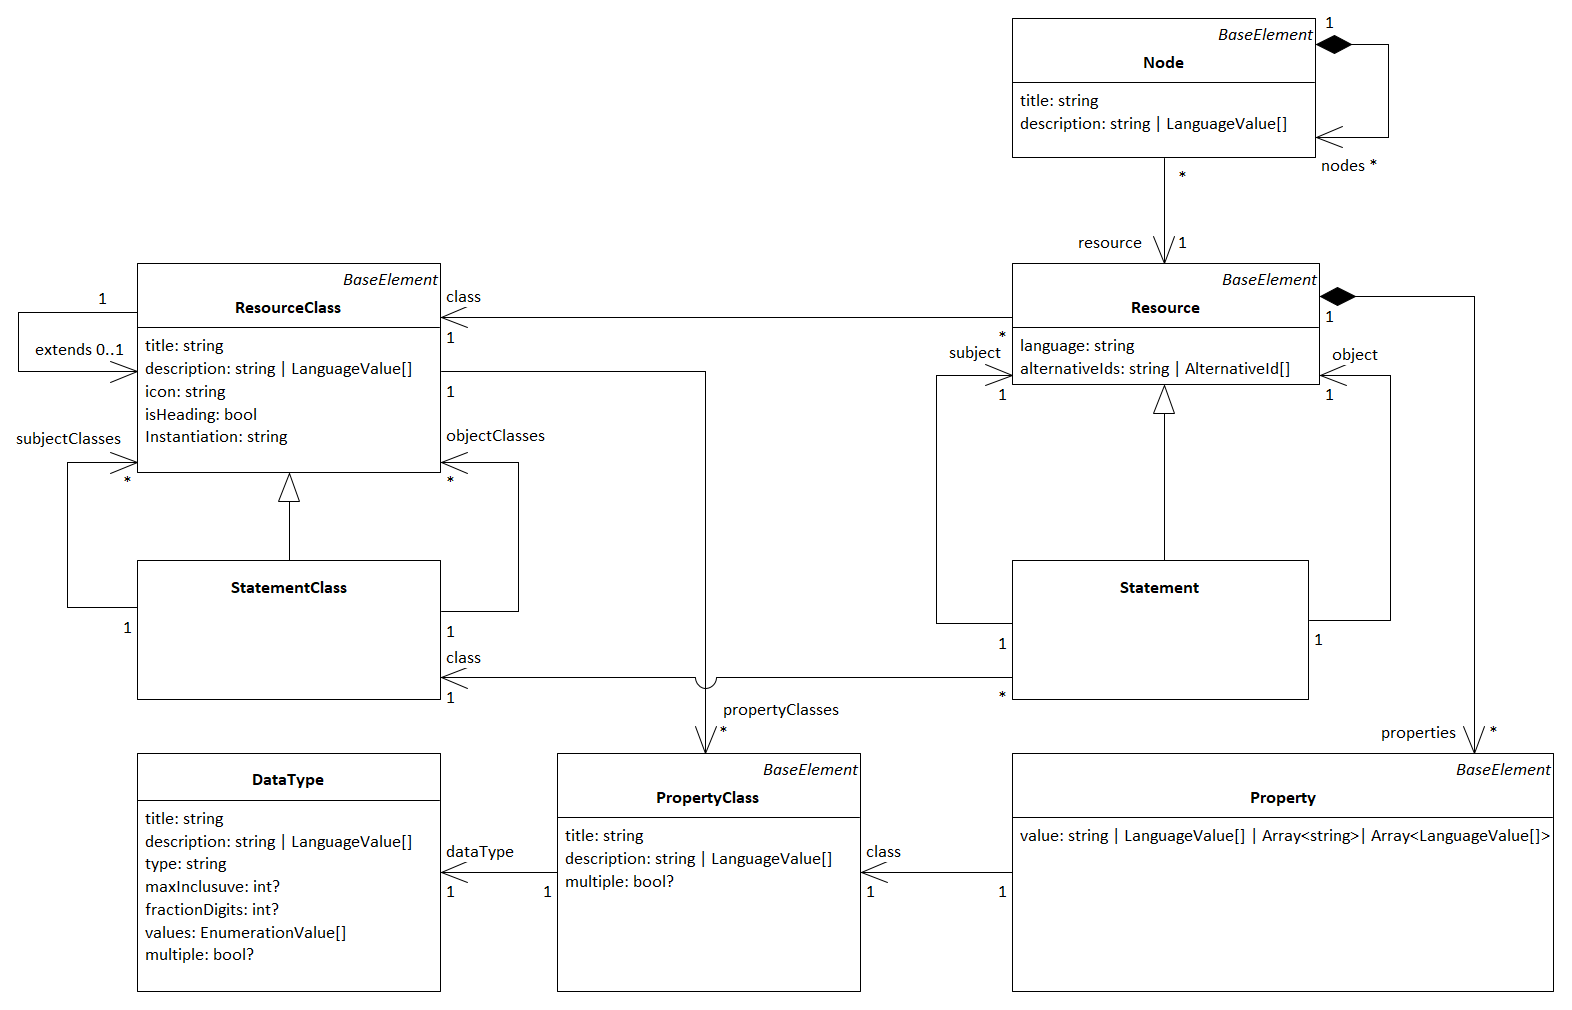
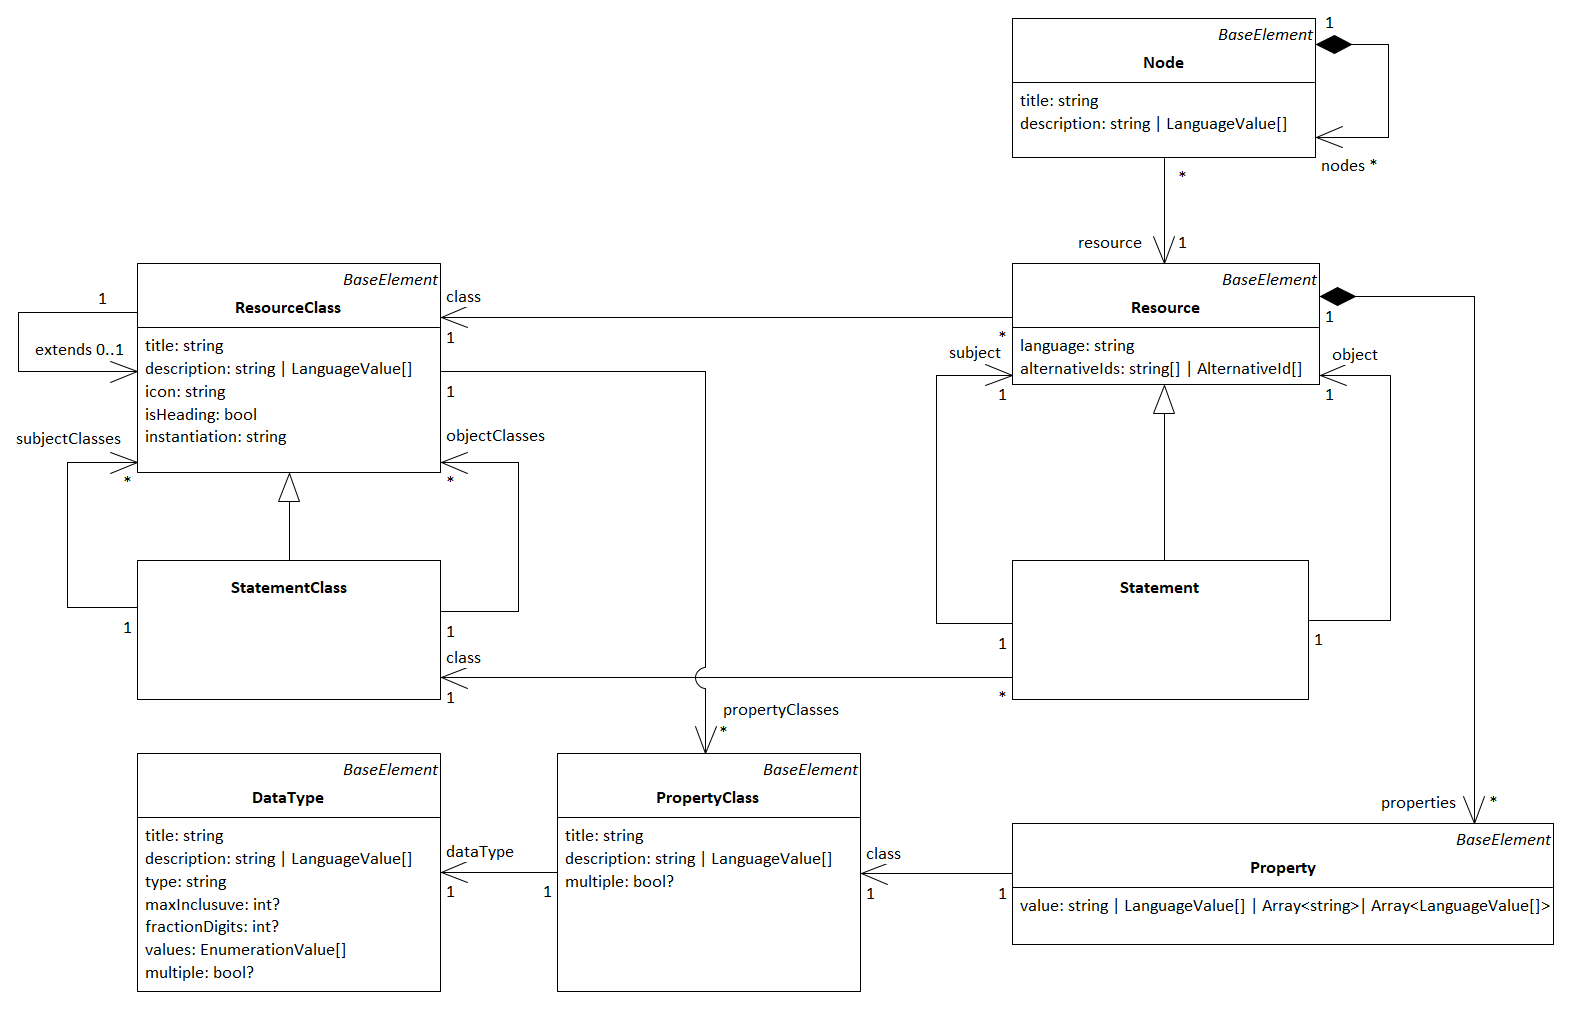
Filling some gaps and fixing some bugs in the metamodel chapter

diff --git a/documentation/03_SpecIF_Metamodel.md b/documentation/03_SpecIF_Metamodel.md
@@ -1,45 +1,98 @@
 # SpecIF-Metamodel
 
 This section describes the SpecIF-Metamodel.
-The describtion by a Metamodel is done in a technology independent way using the OMG MOF Metamodeling approach - often called platform-independent model.
-MOF is a simplified form of UML class modeling.
-From such a platform-independent metamodel, different concrete data representations - platform-dependent models - can be derived. This can be for example JSON, XML or a SQL data base schema. 
 
-You will find the realization as JSON schema in the next chapter of this specification.
+The describtion by a Metamodel is done in a technology independent way following the OMG [Meta Object Facility (MOF) Metamodeling](https://www.omg.org/mof/) technology 
+and the OMG [Model Driven Architecture (MDA)](https://www.omg.org/mda/) approach. 
+The metamodel defines a platform-independent model (PIM).
 
-## SpecIF Repositories
+The MOF metamodeling approach is a simplified form of UML class modeling to define data structures (terms, attributes and associations) for data models.
+From such a platform-independent metamodel, different concrete data representations - platform-specific models (PSM) - can be derived. 
+This can be for example a SpecIF representation using JSON, XML or a SQL data base schema and so on. 
+
+You will find the realization as JSON schema, used for file- and WebAPI-representations in the next chapters of this specification.
+
+Further platform-specific models for SpecIF (e.g. XML) are not yet defined and are not part of this release version of the SpecIF-specification, but may be developed and released in future releases of SpecIF.
+
+## SpecIF-Repositories
 
 The following figure shows the entry point to the SpecIF-Metamodel. The attributes of the classes are hidden for better readability and will be discussed in the sections below.
 
 ![SpecIF Project Metamodel](./images/SpecIfProjectMetamodel.png)
 
 The SpecIF class is the outermost element of a SpecIF data representation. 
-We can call it a repository.
-It defines the entire SpecIF data set represented in a SpecIF file or a SpecIF persistance layer like a data base or data provided by a WebAPI. 
-Such a SpecIF repository instance is often used to define a project context in a development project. 
+We can call it a repository or data set.
+It defines the entire SpecIF data set represented in platform-specific implementation by a SpecIF file or a SpecIF persistance layer like a data base or data provided by a WebAPI. 
+Such a SpecIF repository instance is often identical with a project context in a development project. 
 It can contain the entire content of PLM data created in a project context. 
 
 SpecIF allows the selected and distributed inclusion of data into a SpecIF repository. 
-It is not required to have all data possible sub-types included in your repository. 
-These subtypes are the objects defined in the class diagram using the composition connections. 
-So you can have one SpecIF repository containing the data and class definitions, and a second, separated set containing the data content, but referencing the required data types. 
+It is not required to have all data, that can be stored in a SpecIF data set in a single repository.  
+So you can have one SpecIF repository containing the data and class definitions, and a second, separated set containing the data content, but referencing the required data types by the unique identifiers. 
 A SpecIF instance has an attribute called *isExtension* of type boolean. 
 If this value is set to true, a tool that is working with this data, needs further SpecIF data to get the complete definition of all required data types and data type definitions.
 
-The classes *Creator* and *Org* (Organization) are used to describe the SpecIF-repository resp. the SpecIF project itself by describing the author and the organization that is responsible for 
-creation of the SpecIF repository.
+### SpecIF-Repository description attributes
 
-### SpecIF, Creator and Org
+To express additional information about the SpecIF repository resp. the project data represented by SpecIF, the metamodel defines some attributes for describing the SpecIF metaclass.
 
 ![The SpecIF repository metaclasses](./images/Metaclass_SpecIF.png)
 
-tbd.
+#### SpecIF
 
-## Data and data type definitions
+The SpecIF metaclass has the following attributes:
 
-In SpecIF it is possible to define concrete data using the concept of graph data, represented by the classes *Resource* - as graph nodes and *Statement* - as graph edges.
-These two elements can contain properties to store a set of data elements (e.g a title and a description).
-A property has a well defined (primitive) data type (e.g. string, integer etc.). This allows a tool to present, edit and validate property data using specialized editors for numbers, text or formated text.
+* *id: string* -  A unique identifier for the SpecIF repository resp. the project represented by the SpecIF repository/file.
+* *title: string | LanguageValue[]* - A human readable description for the entire SpecIF repository/project.
+* *description: string | LanguageValue[]* - A human readable description for documentation purposes.
+* *isExtension: bool* - Indicates that the project is not schema-compliant on its own; by default the value is 'false'. Of course, it is expected that once extended the project is schema-compliant.
+* *generator: string* - The generator that generate the SpecIF data.
+* *generatorVersion: string* - The SpecIF generator tool version.
+* *language: string* - An IETF language tag such as 'en', 'en-US, 'fr' or 'de' showing the used language of simple property values. 
+Is superseded by a resource's, statement's or property's language value.
+* *createdAt: DateTime* - The creation date.
+* *createdBy: Creator* - The creator of the SpecIF data-set. If specified, at least an e-mail address must be given.
+* *rights: Rights* - A copyright and/or license information.
+
+#### Creator
+
+The *Creator* metaclass defines information about the SpecIF data creator.
+
+ and has the following attributes:
+
+* *familiyName: string* - The creators family name.
+* *givenName: string* - The creators given name.
+* *email: Email* - The creators E-Mail.
+* *org: Org* - The creators organization.
+
+#### Email
+
+The *Email* metaclass has the following attributes:
+
+* *type: string* - Tbd.
+* *value: string* - A valid E-Mail address.
+
+#### Org
+
+The *Org* metaclass describes the SpecIF creators organization and has the following attribute:
+
+* *organizationName: string* - The organization name.
+
+#### Rights
+
+The *Rights* metaclass defines a data structure to represent copyright and/or license information about the SpecIF data.
+It has the following attributes:
+
+* *title: string* - A title for the copyright/license information (e.g. 'Apache license v2')
+* *type: string* - A type information for the copyright/license information.
+* *url: string* - A valid uniform resource locator to forther copyright/license information.
+
+## Data representation and data type definitions in SpecIF
+
+In SpecIF it is possible to define concrete data using the concept of graph data, represented by the metaclasses *Resource* - as graph nodes and *Statement* - as graph edges.
+These two elements can contain *Property* elements to store a set of data elements (e.g a title and a description).
+A Property has a well defined (primitive) DataType (e.g. string, integer etc.). 
+This allows a tool to present, edit and validate property data using specialized editors for numbers, text or formated text.
 
 The elements containing the data need a specification about the data structure and the data types. 
 This is done in SpecIF by defining a set of classifiers for the concrete data. 
@@ -47,38 +100,16 @@ These classifiers define for example what kind of properties are included in a R
 
 The SpecIF-Metamodel defines a set of classes that are responsible for these data type definitions:
 
-*  The *ResourceClass* defines the type of Resources.
-*  The *StatementClass* defines the type of Statements.
-*  The *PropertyClass* defines the type of Properies.  
-*  The *DataType* defines primitive data types (Integer, String, Double, Boolean, DateTime) used as data types for property definitions. The type strig can contain formatted text or unformated text.
+*  The *ResourceClass* defines the type of a *Resource*.
+*  The *StatementClass* defines the type of a *Statement*.
+*  The *PropertyClass* defines the type of a *Property*.  
+*  The *DataType* defines the primitive data types (Integer, String, Double, Boolean, DateTime, Enumerations) used as data types for property definitions. 
+The type string can represent formatted text or unformated text.
 
-## Hierarchies
+## Metamodel helper classes
 
-The metacalss *Node* defines a hierarchical structure to represent Resources as a tree. 
-Hieraries are trees of so called *Nodes*. 
-Each Node does not contain the Resource data, but holds a reference to a Resource element. 
-This allows that the same Resource can be contained in multiple Hierarchies. 
-So a Hierarchy is a tree structure view on Resources.
-Typical application scenarios of hierarchies are document structures in requirement specifications or the package/diagram/element-structure of a UML or SysML model.
-
-## Files
-
-The last remaining element to describe a the top level structure is the *File*. 
-SpecIF allows the inclusion of any kind of file into the repository.
-This allows for example to add files as attachments to a SpecIF specification etc.
-The File-element allows to describe and reference files contained in a SpecIF repository.   
-
-## Detailed SpecIF Metamodel
-
-The figure below shows the metamodel with properties and connections between the elements to represent data, data type definitions
-and hierarchical structures. 
-
-![SpecIF Metamodel elements with Associations](./images/MetaModel-M2.png)
-
-On the right you can see the classes defining the data structures for concrete data elements like Resource, Statement, Propery, Hierarchy and Node.
-On the left you can see the data type defining elements like ResourceClass, StatementClass, PropertyClass and DataType.
-
-In the following sections the semantics of all elements is described in detail.
+The SpecIF-metamodel defines three helper classes. 
+They are described in this section.
 
 ### BaseElement
 
@@ -87,10 +118,10 @@ We define this in a abstract metaclass *BaseElement*.
 
 ![SpecIF metaclass base attributes](./images/Metaclass_BaseElement.png)
 
-* *id: string* - A unique ID for the SpecIF element
-* *revision: string* - A unique ID for the revision of the SpecIF element 
+* *id: string* - A unique identifier for the SpecIF-element
+* *revision: string* - A unique identifier for the revision of the SpecIF element 
 * *replaces: string[]* - The revision IDs of the SpecIF elements replaced by this element revision. 
-This array can contain 0 entries (no predecessor), 1 entry (1 predecessor) or 2 entries (this element is merged from 2 predecessors).
+This array has a maximum length of 2 entries and can contain 0 entries (no predecessor), 1 entry (1 predecessor) or 2 entries (this element is merged from 2 predecessors).
 * *changedAt: DateTime* - The date and time where the element was changed.
 * *changedBy: string* - The change author.
 
@@ -104,17 +135,47 @@ The following metaclasses are inherited from BaseElement:
 * Statement
 * Node
 * Property
+* File
 
 Remark: The attributes of the base metaclass BaseElement are not described for each child class any more!
 
 ### LanguageValue
 
-To support the possibilitiy to store data in multiple languages, SpecIF defines a metaclass called *LanguageValue*.
-
 ![The metaclass *LanguageValue*](./images/Metaclass_LanguageValue.png)
 
-This class defines an attribute *text: string* to take the data content in a certain language and a second attribute to specify
-the kind of used language (e.g. *en*, *de* etc.).
+To realize the concept of data storage in multiple languages, SpecIF defines a metaclass called *LanguageValue*.
+
+This class defines two attributes:
+
+* *text: string* - This attribute takes the data content in a certain language.
+* *language: string* - An IETF language tag such as 'en', 'en-US, 'fr' or 'de' showing the used language.
+
+### AlternativeId
+
+![The metaclass *AlternativeId*](./images/Metaclass_AlternativeId.png)
+
+*AlternativeId* data values are used to define further identifier values in addition to the *id* attribute in SpecIF. 
+This is helpful for data integrations where multiple tools have their own internal identifiers. 
+So you can represent these 'legacy' IDs in SpecIF.
+AlternativeId has the following attributes:
+
+* *id: string* - A string with a valid identifier of an element.
+* *revision: string* - A unique revision identifier.
+* *project: string* - A string with a valid project identifier.
+
+
+## SpecIF-Metamodel details
+
+The figure below shows the metamodel with properties and associations between the elements to represent data representation, data type definitions
+and hierarchical structures. 
+
+![SpecIF Metamodel elements with Associations](./images/MetaModel-M2.png)
+
+On the right you can see the classes defining the data structures for concrete data elements like *Resource*, *Statement*, *Propery*, *Hierarchy* and *Node*.
+On the left you can see the data type defining elements like *ResourceClass*, *StatementClass*, *PropertyClass* and *DataType*.
+
+In the following sections the semantics of all elements is described in detail.
+
 
 ### DataType
 
@@ -236,6 +297,21 @@ This allows a spearation of data model and view (view concept as known e.g. from
 The Node elemnt have the following attributes:
 
 * *title: string* - A title for the Node. Mostly used for internal purposes, because the title comes normally from the referenced Resource element properties.
-* *description: string | LanguageValue[]* - A human readable description of the data type for documentation purposes. Mostly used for internal purposes, because the description comes normally from the referenced Resource element properies.
+* *description: string | LanguageValue[]* - A human readable description for documentation purposes. Mostly used for internal purposes, because the description comes normally from the referenced Resource element properies.
 * *nodes* - A collection of child node elements for the Node.
 * *resource* - A reference to the Resource element used as Node tree node data.
+
+### File
+
+The last remaining element to describe is the *File* metaclass. 
+SpecIF allows the inclusion of any kind of file into the repository.
+This allows for example to add files as attachments to a SpecIF specification etc.
+The File-element allows to describe and reference files contained in a SpecIF repository.  
+
+![The metaclass *File*](./images/Metaclass_File.png)
+
+The metaclass File has the following attributes:
+
+* *title: string* - In case of a file, the title is the absolute or relative URL.
+* *description: string | LanguageValue[]* - A human readable description for documentation purposes.
+* *type: string* - The file's media type (formerly MIME-type) according to https://www.iana.org/assignments/media-types/media-types.xhtml. 
